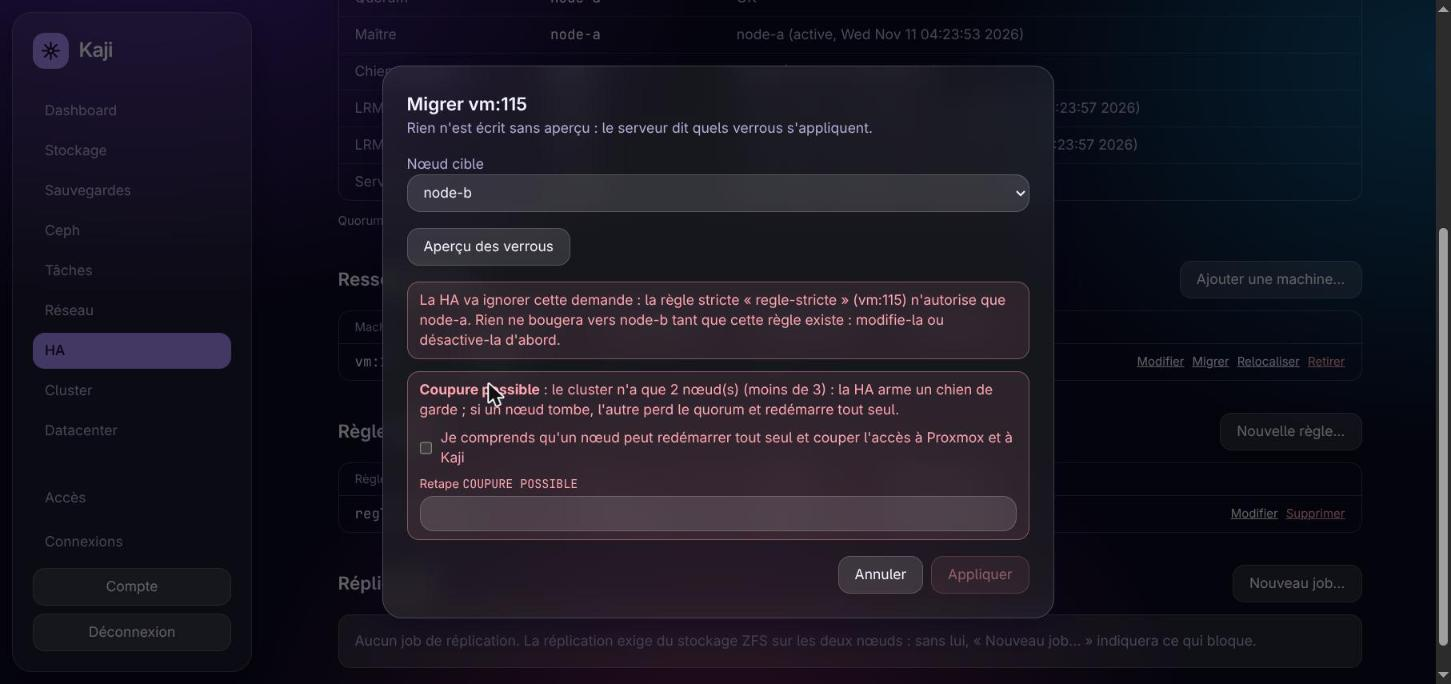
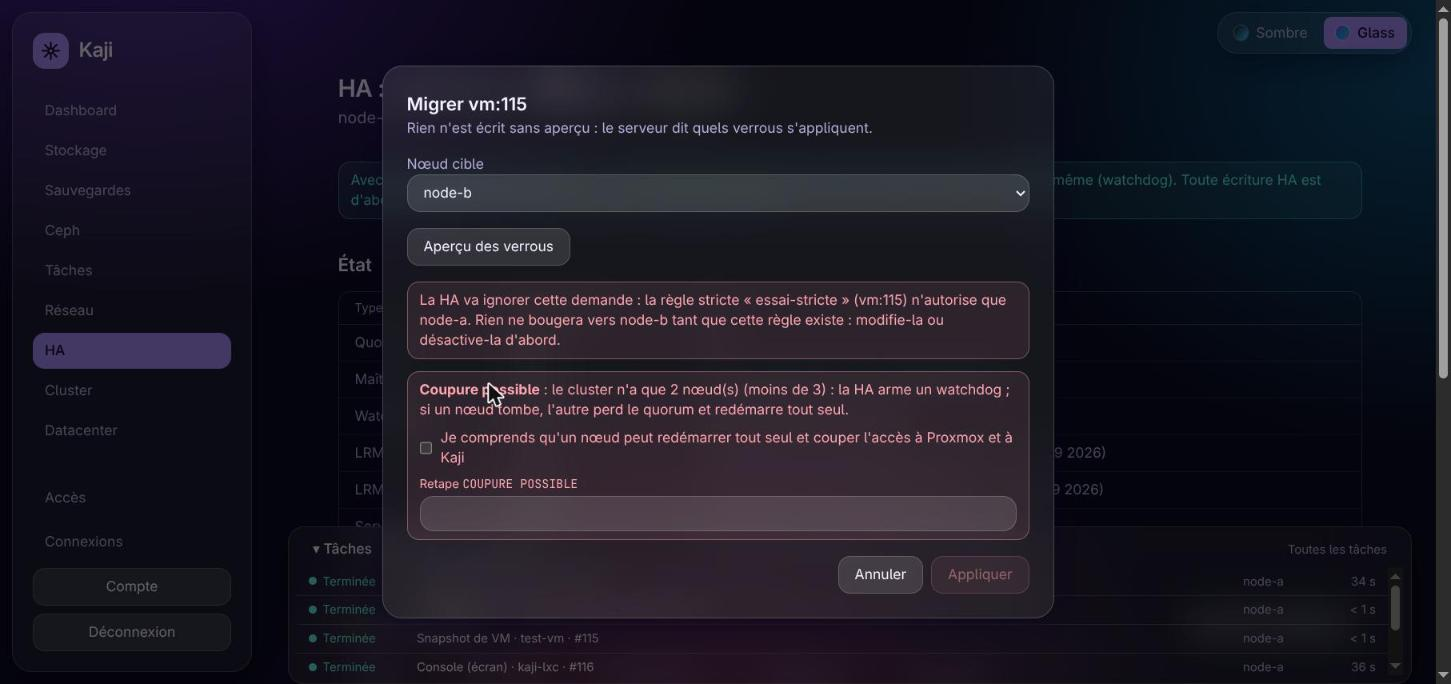
docs(captures): capture HA « règle stricte » refaite (libellé Watchdog)
Claude-Session: https://claude.ai/code/session_012AuSHSUcio2c87z7NysAGR

diff --git a/docs/REPRISE.md b/docs/REPRISE.md
@@ -63,7 +63,7 @@ Deux agents, **PC A** et **PC B**, qui font **la même chose** depuis le 2026-11
 - **Barre de tâches permanente (PC A, #280 ; PR #281 fusionnée et déployée le 2026-11-11, correctifs #283 et #284 déployés, captures au README)** : bande repliable en bas de chaque page (sauf « Tâches ») : tâches en cours, 6 dernières tâches avec leur état, journal en un clic ; frontend seul, route existante `GET …/tasks` (`docs/api/barre-de-taches.md`). **Vu en réel (VM 115)** : la barre s'affiche sur la page Machine avec les 6 dernières tâches (noms lisibles), un snapshot créé par l'interface apparaît en quelques secondes, un clic ouvre son journal (« TASK OK »), snapshot supprimé ensuite (VM 115 à l'identique). **Défaut trouvé et corrigé** : le tiroir du journal s'ouvrait coincé DANS la barre (son flou d'arrière-plan sert de repère aux éléments `fixed`) ; il est maintenant rendu hors de la barre. **Second défaut corrigé** : la liste ouverte prenait un tiers d'un écran de 684 px ; limitée à ~3 lignes, elle défile. **Revu en réel après correctifs** : tiroir en plein écran (Échap le ferme), repli et dépli (état gardé dans le navigateur), « Toutes les tâches » ouvre la page Tâches où la barre disparaît. **Non vu** : une tâche longue suivie en direct dans la barre (« N en cours »), écran étroit.
 - **Onglet Pare-feu d'une machine, VM et LXC (PC A, #274 ; PR #275 fusionnée et déployée le 2026-11-11, correctif PR #277 déployé, captures au README)** : nouvel onglet de la page Machine (options, règles, alias et IPSets de la machine) ; aucune route nouvelle, les fenêtres de la page « Réseau » acceptent une machine préremplie (`docs/api/pare-feu-machine.md`) ; la ligne « Conteneur » de `docs/parite-proxmox.md` était périmée (réplication, permissions, historique et tags existaient déjà). **Vu en réel (2026-11-11, VM 115, tout remis à l'identique)** : onglet Pare-feu (options et règles vides), « Options… » (champs de machine, aperçu `Aucun verrou : ce niveau est désactivé`), « Règles… » (machine préremplie, règle `in ACCEPT tcp 8080` désactivée créée puis supprimée, relues chez Proxmox), « Alias et IPSets… » (pas de groupes ; alias créé puis supprimé par l'API). **Défaut trouvé et corrigé** (PR #277, revérifié en réel : le champ « Retape … » s'affiche, l'alias d'essai est supprimé) : dans « Objets du pare-feu » (datacenter comme machine), le champ « Retape le nom » ne s'affichait jamais pour une suppression (il n'apparaissait qu'une fois valide, et la validité exigeait de l'avoir retapé) : « Appliquer » restait grisé ; depuis M7-2, les suppressions d'alias, d'IPSet, d'entrée et de groupe étaient impossibles par l'interface (l'API marchait). **Jamais écrit en réel** : options de la machine, pare-feu activé.
 - **Moniteur QEMU en lecture seule (PC B, #273)** : onglet « Moniteur » d'une VM, `POST …/qemu/{vmid}/monitor` limité à une **liste blanche de commandes `info …`** (jamais une commande libre ; VM en marche exigée ; sortie nettoyée et bornée ; audit `qemu-monitor` sans la sortie ; `docs/api/moniteur-qemu.md`). **Non validé en réel** tant que cette ligne ne le dit pas.
-- **Renommage (demande d'Enzo, 2026-11-11)** : « Chien de garde » devient **« Watchdog »** (le nom de Proxmox) dans la page HA, les messages du serveur, la doc d'API et le README ; les lignes d'historique de ce fichier gardent l'ancien mot. **Les captures `ha-1.jpg` et `ha-regle-stricte.jpg` montrent encore l'ancien libellé** : à refaire au prochain essai HA.
+- **Renommage (demande d'Enzo, 2026-11-11)** : « Chien de garde » devient **« Watchdog »** (le nom de Proxmox) dans la page HA, les messages du serveur, la doc d'API et le README ; les lignes d'historique de ce fichier gardent l'ancien mot. **Captures refaites le 2026-11-11 (accord d'Enzo pour l'essai)** : `ha-1.jpg` (page HA en lecture seule) et `ha-regle-stricte.jpg` (VM 115 ajoutée à la HA en `stopped` avec la phrase `COUPURE POSSIBLE`, règle `node-affinity` stricte vers `node-a` seul, aperçu de la migration vers `node-b` : avertissement rouge « La HA va ignorer cette demande », migration **jamais envoyée** ; règle puis ressource supprimées, aucune ressource ni règle HA à la fin ; le watchdog reste `armed` quelques minutes puis repasse `standby`).
 - **Reste, dans cet ordre** (tableau détaillé : `docs/parite-proxmox.md`, colonnes ⬜/🟡) : M10 écriture si Enzo le décide → M12 C4 destruction Ceph → M13 notifications + métriques → M14 options avancées → M15 datacenter. (M5, M6 code, M7 : terminés côté code ; il reste leurs validations en réel, voir « À reprendre sur un autre PC ».)
 - **Jamais exécuté en réel** (à dire dans chaque PR) : migration à chaud, déplacement et agrandissement de disque, carte réseau ajoutée, PBS (aucun PBS dispo), protection de sauvegarde, élagage (aucune sauvegarde sur le cluster), stockages autres que dir, redémarrer/éteindre un nœud, disques et volumes, certificats, ACME, dépôts (ajout), Ceph.
 
